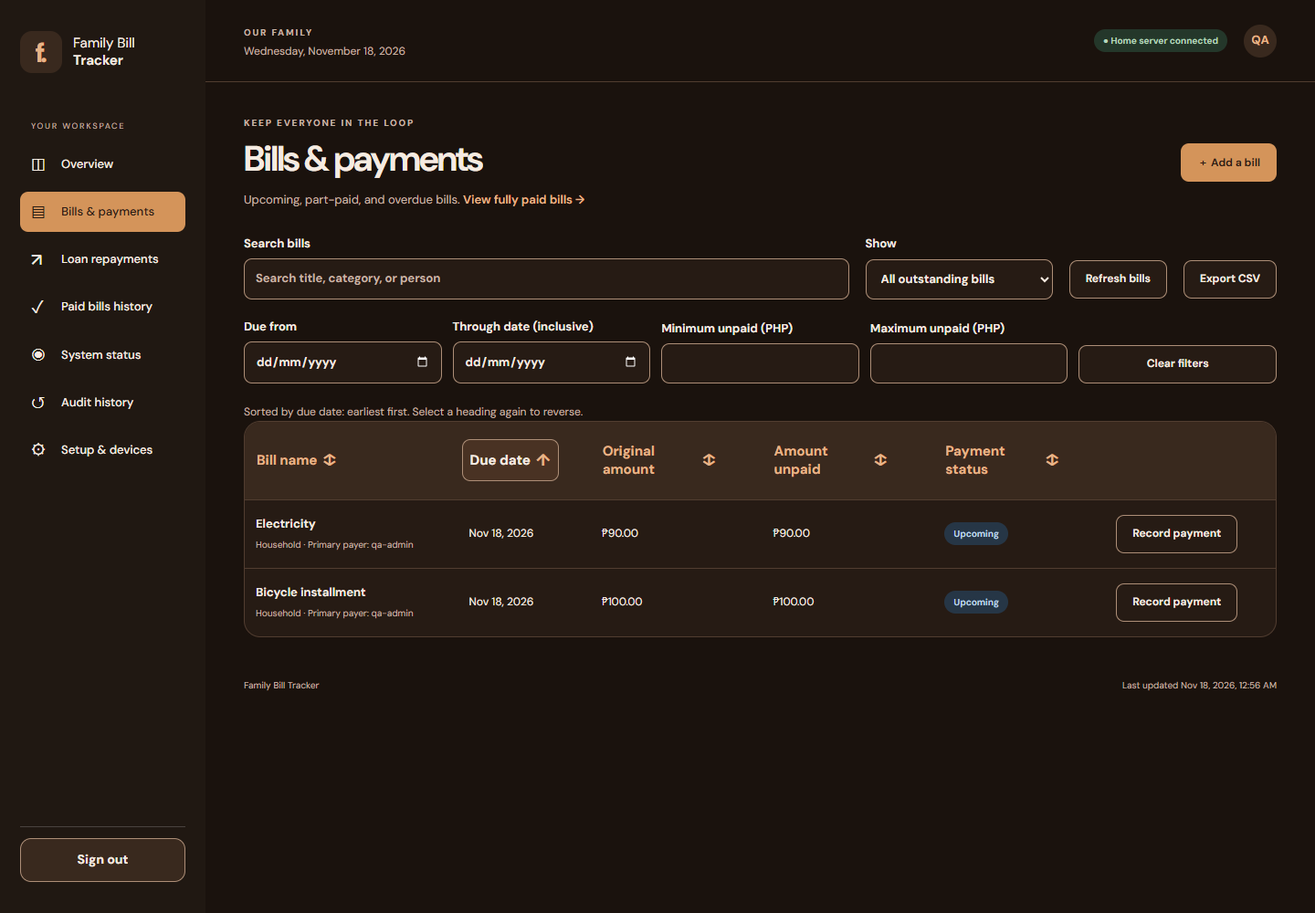
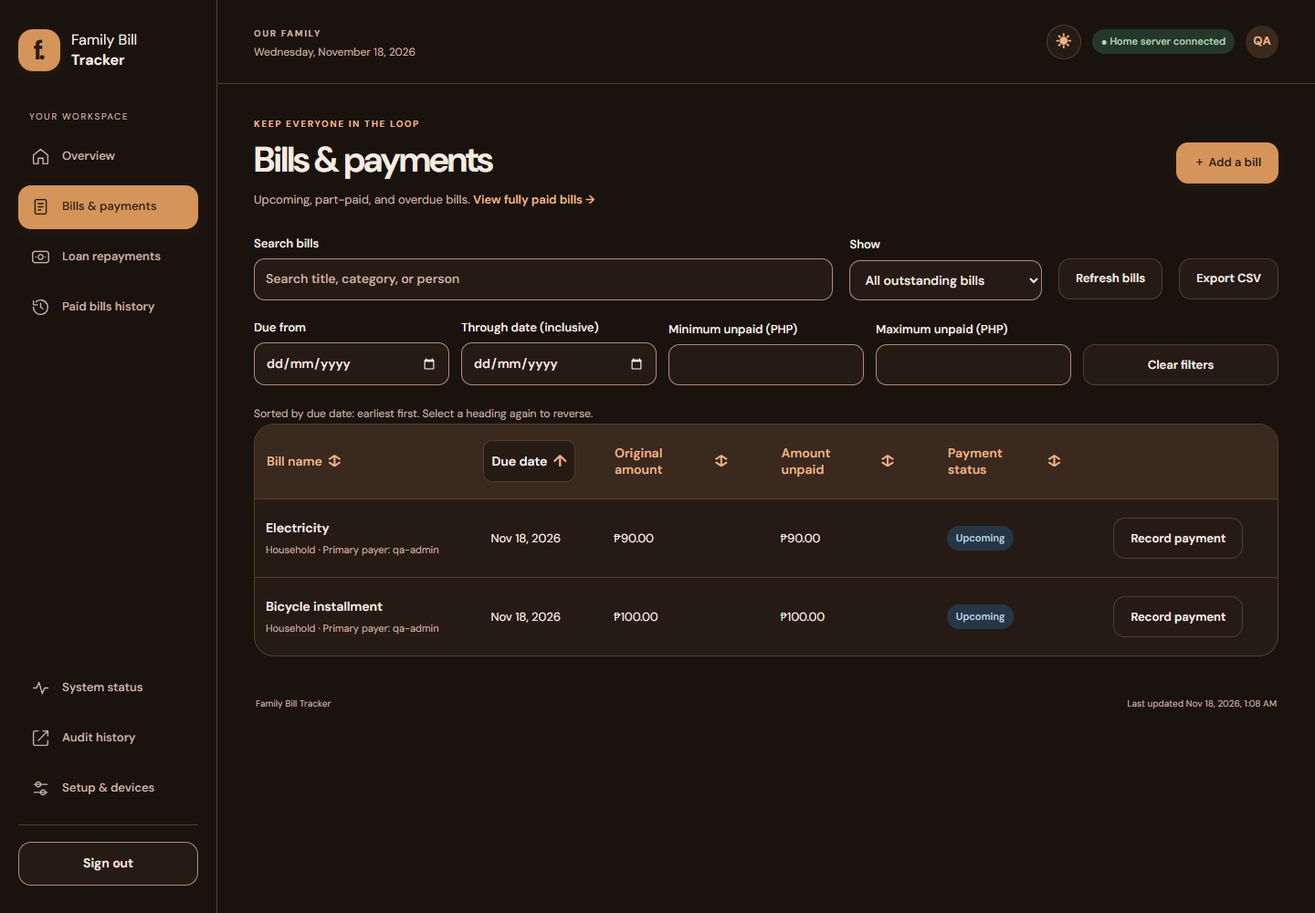
Refine family UI to match warm mobile reference

diff --git a/static/family-theme.css b/static/family-theme.css
@@ -1,0 +1,141 @@
+/* Family-facing screens only: warm cream, soft cards, and restrained toffee. */
+.family-app{background:var(--cream-50);font-size:15px}
+.family-app .sidebar{width:238px;background:var(--cream-50);border-right:1px solid var(--line);padding:30px 20px;gap:0}
+.family-app .workspace{margin-left:238px}
+.family-app .brand{color:var(--ink);font-size:16px;line-height:1.35;margin:2px 0 42px}
+.family-app .brand-mark{background:var(--toffee-500);color:var(--brand-label);border-radius:16px;box-shadow:0 4px 12px #9e62351a}
+.family-app .nav-label{color:var(--muted);font-size:10px;letter-spacing:1.6px}
+.family-app .sidebar nav{flex:0 1 auto;gap:7px;overflow:visible}
+.family-app .sidebar nav a{color:var(--muted);font-size:13px;font-weight:550;min-height:48px;border-radius:14px;padding:12px 14px;gap:13px}
+.family-app .sidebar nav a:hover{background:var(--toffee-100);color:var(--ink)}
+.family-app .sidebar nav a.active{background:var(--toffee-500);color:var(--brand-label);box-shadow:0 4px 12px #9e62351a}
+.family-app .sidebar nav a span{display:grid;place-items:center;flex-shrink:0}
+.family-app .sidebar nav a .desktop-label{display:block;width:auto;font-size:inherit;line-height:1.25}
+.family-app .sidebar nav a .mobile-label{display:none}
+.family-app .sidebar svg{width:21px;height:21px;stroke:currentColor;fill:none;stroke-width:1.6;stroke-linecap:round;stroke-linejoin:round}
+.family-app .sidebar-tools{margin-top:auto;padding-top:28px;min-height:0;overflow:auto}
+.family-app .sidebar-bottom{padding:18px 0 0;margin-top:16px;border-color:var(--line)}
+.family-app .sidebar-signout{border-radius:14px;background:var(--surface);font-weight:600;box-shadow:0 2px 5px #2b1d1405}
+.family-app .sidebar-signout:hover{background:var(--toffee-100)}
+.family-app .sidebar-signout:focus-visible,.family-app .sidebar nav a:focus-visible{outline-color:var(--focus)}
+.family-app .topbar{background:var(--cream-50);border-bottom:1px solid var(--line);min-height:92px;padding-inline:40px}
+.family-app .topbar-right{gap:12px}
+.family-app .topbar .eyebrow{color:var(--muted)}
+.round-control{display:inline-grid;place-items:center;border:1px solid var(--line);border-radius:50%;width:38px;height:38px;min-width:38px;padding:0;background:var(--surface);color:var(--toffee-600);font-size:21px;line-height:1}
+.round-control:hover{background:var(--toffee-100)}
+#workspace-toggle,.mobile-add{display:none}
+.family-app main{padding:36px 40px 24px}
+.family-app h1{font-weight:650;letter-spacing:-.045em;line-height:1.16}
+.family-app h2{font-size:20px;font-weight:600;letter-spacing:-.025em}
+.family-app .eyebrow{color:var(--toffee-600);font-size:10px;letter-spacing:1.6px}
+.family-app .page-heading{margin-bottom:28px}
+.family-app .button{font-size:13px;font-weight:600;min-height:45px;border-radius:13px;padding:12px 18px}
+.family-app .primary{box-shadow:0 4px 10px #9e62351a}
+.family-app .secondary{border-color:var(--line);background:var(--surface)}
+.family-app .secondary:hover{border-color:var(--control-border);background:var(--toffee-100)}
+.family-app .card,.family-app .stat{border-radius:22px;border-color:var(--line);background:var(--surface);box-shadow:0 5px 18px #2b1d1405}
+.family-app .stat{padding:21px 22px}
+.family-app .stat.warm{background:var(--toffee-100)}
+.family-app .stat-label{font-size:12px;font-weight:500}
+.family-app .stat-value{font-size:32px;font-weight:600;letter-spacing:-1px}
+.family-app .stat p:last-child{font-size:11px}
+.family-app .home-card{background:var(--toffee-100);border:1px solid var(--line);border-radius:22px;padding:26px}
+.family-app .home-icon{color:var(--toffee-600);opacity:.65}
+.family-app .home-card h2{font-size:25px;font-weight:600}
+.family-app .home-card .eyebrow{color:var(--muted)}
+.family-app .light{border:1px solid var(--line);background:var(--surface);color:var(--toffee-600)}
+.family-app .badge{font-size:11px;padding:5px 10px;font-weight:550}
+.family-app .bill-item{padding:19px 0}
+.family-app .bill-info strong,.family-app .bill-amount{font-size:14px;font-weight:600}
+.family-app .bill-info p{font-size:12px}
+.family-app .category-icon{background:var(--toffee-100);color:var(--toffee-600);border-radius:13px;width:42px;height:44px}
+.family-app input,.family-app select,.family-app textarea{border-radius:12px;background:var(--surface);border-color:var(--control-border);font-size:14px}
+.family-app label{font-size:13px;font-weight:550}
+.family-app .view-filters{gap:13px}
+.family-app .bill-table th{background:var(--toffee-100)}
+.family-app .bill-table .sort-heading{font-size:14px;font-weight:600;color:var(--toffee-600);border-radius:10px}
+.family-app .bill-table th[aria-sort=ascending] .sort-heading,.family-app .bill-table th[aria-sort=descending] .sort-heading{background:var(--surface);border-color:var(--line);color:var(--ink)}
+.family-app .bill-table td{padding-top:20px;padding-bottom:20px;font-size:13px}
+.family-app .record-title,.family-app .bill-detail,.family-app td strong{font-size:14px;font-weight:600}
+.family-app .record-table td .small{font-size:11px}
+.family-app .record-table td:last-child .button.bill-detail{border-radius:12px;border-color:var(--line);font-size:12px}
+.family-app .record-table .record-title{color:var(--ink)}
+.family-app .review-dialog{font-family:var(--font-ui);background:var(--surface);color:var(--ink);border:1px solid var(--line);border-radius:24px;box-shadow:0 20px 60px var(--shadow)}
+.family-app .review-dialog::backdrop{background:var(--backdrop)}
+.family-app .review-dialog .primary{background:var(--toffee-500);border-color:var(--toffee-500);color:var(--brand-label)}
+.family-app .review-dialog .primary:hover{background:var(--toffee-600)}
+.family-app .review-dialog .secondary{background:var(--surface);color:var(--ink);border-color:var(--control-border)}
+.family-app .review-dialog :focus-visible{outline-color:var(--focus)}
+.family-app .signout-dialog .primary{background:var(--danger-button);border-color:var(--danger-button);color:#fff}
+.family-app .signout-dialog .primary:hover{background:var(--danger-hover);border-color:var(--danger-hover)}
+.family-app .signout-dialog .secondary:hover{background:var(--toffee-100)}
+.family-app .footer{color:var(--muted)}
+@media(min-width:781px) and (max-height:760px){
+  .family-app .sidebar{padding-top:22px;padding-bottom:18px}
+  .family-app .brand{margin-bottom:24px}
+  .family-app .sidebar-tools{padding-top:16px}
+  .family-app .sidebar nav a{min-height:42px;padding-top:9px;padding-bottom:9px}
+}
+@media(min-width:781px) and (max-height:600px){
+  .family-app .sidebar{overflow-y:auto}
+  .family-app .sidebar-tools{overflow:visible;flex-shrink:0}
+}
+@media(min-width:781px) and (max-width:1100px){
+  .family-app .sidebar{width:208px;padding-inline:14px}
+  .family-app .workspace{margin-left:208px}
+  .family-app main{padding:30px 26px}
+  .family-app .topbar{padding-inline:26px}
+}
+@media(max-width:780px){
+  .family-app .sidebar{width:auto;height:76px;inset:auto 12px max(10px,env(safe-area-inset-bottom)) 12px;padding:0 12px;background:var(--surface);border:1px solid var(--line);border-radius:24px;overflow:visible;box-shadow:0 6px 30px #2b1d141a}
+  .family-app .sidebar>nav{display:flex;align-items:center;justify-content:space-between;flex:1;overflow:visible;gap:0;height:100%}
+  .family-app .sidebar>nav a{flex:1;min-width:0;min-height:56px;padding:8px 0;gap:5px;font-size:10px;font-weight:500;color:var(--muted);border-radius:16px}
+  .family-app .sidebar>nav a:nth-child(2){margin-right:62px}
+  .family-app .sidebar>nav a .desktop-label{display:none}
+  .family-app .sidebar>nav a .mobile-label{display:block;width:auto;font-size:10px;line-height:1.2}
+  .family-app .sidebar>nav a.active{color:var(--toffee-600);background:transparent;box-shadow:none}
+  .family-app .sidebar>nav a.active span{background:var(--toffee-100);border-radius:10px;padding:3px 11px;margin:-3px -11px}
+  .family-app .sidebar .mobile-add{display:grid;place-items:center;position:absolute;left:calc((100% - 52px)/2);top:12px;transform:translateX(-50%);height:50px;width:50px;border-radius:50%;border:4px solid var(--surface);background:var(--toffee-500);color:var(--brand-label);font-size:30px;box-shadow:0 3px 10px #9e623533;cursor:pointer}
+  .family-app .mobile-add:hover{background:var(--toffee-600)}
+  .family-app .sidebar-tools{display:none;position:absolute;bottom:88px;left:0;right:0;padding:14px;margin:0;background:var(--surface);border:1px solid var(--line);border-radius:22px;box-shadow:0 8px 30px var(--shadow);overflow:auto;max-height:calc(100dvh - 200px)}
+  .family-app .sidebar.menu-open .sidebar-tools{display:block}
+  .family-app .sidebar-tools nav{display:grid;height:auto;min-width:0}
+  .family-app .sidebar-tools nav a{flex-direction:row;justify-content:flex-start;padding:12px;min-height:46px;font-size:14px}
+  .family-app .sidebar-bottom{display:flex;align-items:center;flex:0 0 52px;padding:0 0 0 6px;margin:0;border:0;border-left:1px solid var(--line)}
+  .family-app .sidebar-signout{display:flex;flex-direction:column;gap:2px;width:100%;min-width:0;min-height:56px;padding:4px 0;font-size:9px;background:transparent;border:0;box-shadow:none}
+  .family-app .sidebar-signout::before{content:'↪';font-size:22px;line-height:1.2}
+  #workspace-toggle{display:inline-grid}
+  .family-app .workspace{margin:0;padding-bottom:112px}
+  .family-app .topbar{padding:16px 22px;min-height:96px;display:grid;grid-template-columns:minmax(0,1fr) auto;gap:12px}
+  .family-app .topbar-right{gap:8px;max-width:176px;flex-wrap:wrap;justify-content:flex-end}
+  .family-app .topbar-right .badge{order:3;font-size:9px;max-width:100%;padding:4px 8px}
+  .family-app .topbar .round-control{width:32px;height:32px;min-width:32px;font-size:18px}
+  .family-app .topbar .eyebrow{font-size:9px;letter-spacing:1.2px}
+  .family-app #today-label{font-size:10px;margin-top:5px}
+  .family-app main{padding:26px 20px 18px}
+  .family-app .page-heading{gap:16px;margin-bottom:24px}
+  .family-app .page-heading h1{font-size:31px;line-height:1.15;letter-spacing:-1.1px}
+  .family-app .page-heading .muted{font-size:13px;line-height:1.65}
+  .family-app .page-heading .primary{width:100%;min-height:46px}
+  .family-app .stats{gap:12px}
+  .family-app .stat{padding:18px;border-radius:20px}
+  .family-app .stat-value{font-size:28px}
+  .family-app .stat-label{font-size:11px}
+  .family-app .toolbar{gap:12px}
+  .family-app .toolbar .button{flex:1;font-size:12px;padding:10px 12px}
+  .family-app .mobile-bill-sort{flex-wrap:nowrap;overflow-x:auto;padding:2px 0 9px;gap:7px;margin-bottom:10px}
+  .family-app .mobile-bill-sort .button{white-space:nowrap;flex:0 0 auto;font-size:12px;min-height:40px;border-radius:22px;padding:9px 13px}
+  .family-app .record-table{border:0;background:transparent;box-shadow:none;border-radius:0;overflow:visible}
+  .family-app .record-table tbody{display:grid;gap:14px}
+  .family-app .record-table tbody tr{border:1px solid var(--line);border-radius:22px;background:var(--surface);padding:20px;gap:15px;box-shadow:0 4px 14px #2b1d1405}
+  .family-app .record-table td{padding:0;font-size:14px}
+  .family-app .record-table .record-title,.family-app .record-table .bill-detail{font-size:16px;font-weight:600}
+  .family-app .record-table td[data-label]::before{font-size:11px;margin-bottom:5px}
+  .family-app .record-table td .small{font-size:11px;line-height:1.6}
+  .family-app .record-table td:last-child .button{font-size:12px;min-height:44px;border-radius:12px}
+  .family-app .card{padding:22px;border-radius:22px}
+  .family-app .bill-table{padding:0}
+  .family-app .toast{bottom:110px}
+  .family-app .footer{padding:18px 20px;font-size:10px;gap:14px;flex-wrap:wrap}
+}
+@media print{.family-app .sidebar,.family-app .topbar{display:none}.family-app .workspace{margin:0}}

diff --git a/templates/app.html b/templates/app.html
@@ -1,8 +1,8 @@
 {% load static %}<!doctype html>
-<html lang="en"><head><meta charset="utf-8"><meta name="viewport" content="width=device-width,initial-scale=1"><meta name="theme-color" content="#FAF7F4" media="(prefers-color-scheme: light)"><meta name="theme-color" content="#1A120D" media="(prefers-color-scheme: dark)"><meta name="description" content="Your family's bills, due dates, and repayments in one calm place."><title>Family Bill Tracker</title><link rel="apple-touch-icon" href="/static/icon-180.png"><link rel="manifest" href="{% static 'manifest.webmanifest' %}"><link rel="icon" href="{% static 'icon.svg' %}" type="image/svg+xml"><link rel="stylesheet" href="{% static 'app.css' %}"><script defer src="{% static 'offline-store.js' %}"></script><link rel="stylesheet" href="{% static 'review.css' %}"><script defer src="{% static 'review.js' %}"></script><script defer src="{% static 'record-filters.js' %}"></script><script defer src="{% static 'app.js' %}"></script></head>
-<body><a class="skip" href="#main">Skip to content</a><div class="layout">
-<aside class="sidebar"><a href="#overview" class="brand"><span class="brand-mark">f.</span><span>Family Bill<br><strong>Tracker</strong></span></a><p class="nav-label">YOUR WORKSPACE</p><nav aria-label="Main navigation"><a href="#overview" data-nav="overview"><span aria-hidden="true">◫</span> Overview</a><a href="#bills" data-nav="bills"><span aria-hidden="true">▤</span> Bills & payments</a><a href="#loans" data-nav="loans"><span aria-hidden="true">↗</span> Loan repayments</a><a href="#history" data-nav="history"><span aria-hidden="true">✓</span> Paid bills history</a><a href="#system" data-nav="system"><span aria-hidden="true">◉</span> System status</a><a id="audit-nav" href="#audit" data-nav="audit" hidden><span aria-hidden="true">↺</span> Audit history</a><a href="#setup" data-nav="setup"><span aria-hidden="true">⚙</span> Setup & devices</a></nav><div class="sidebar-bottom"><button id="logout" class="sidebar-signout" type="button">Sign out</button></div></aside>
-<div class="workspace"><header class="topbar"><div><span class="eyebrow" id="family-name">YOUR FAMILY WORKSPACE</span><p id="today-label" class="small muted"></p></div><div class="topbar-right"><span id="connection-badge" class="badge muted-badge">Connecting</span><span id="user-avatar" class="avatar" aria-label="Your account">F</span></div></header>
+<html lang="en"><head><meta charset="utf-8"><meta name="viewport" content="width=device-width,initial-scale=1"><meta name="theme-color" content="#FAF7F4" media="(prefers-color-scheme: light)"><meta name="theme-color" content="#1A120D" media="(prefers-color-scheme: dark)"><meta name="description" content="Your family's bills, due dates, and repayments in one calm place."><title>Family Bill Tracker</title><link rel="apple-touch-icon" href="/static/icon-180.png"><link rel="manifest" href="{% static 'manifest.webmanifest' %}"><link rel="icon" href="{% static 'icon.svg' %}" type="image/svg+xml"><script src="{% static 'theme.js' %}"></script><link rel="stylesheet" href="{% static 'app.css' %}"><script defer src="{% static 'offline-store.js' %}"></script><link rel="stylesheet" href="{% static 'review.css' %}"><link rel="stylesheet" href="{% static 'family-theme.css' %}"><script defer src="{% static 'review.js' %}"></script><script defer src="{% static 'record-filters.js' %}"></script><script defer src="{% static 'app.js' %}"></script></head>
+<body class="family-app"><a class="skip" href="#main">Skip to content</a><div class="layout">
+<aside class="sidebar"><a href="#overview" class="brand"><span class="brand-mark">f.</span><span>Family Bill<br><strong>Tracker</strong></span></a><p class="nav-label">YOUR WORKSPACE</p><nav aria-label="Main navigation"><a href="#overview" data-nav="overview"><span aria-hidden="true"><svg viewBox="0 0 24 24"><path d="m3 10 9-7 9 7v10a1 1 0 0 1-1 1h-5v-7H9v7H4a1 1 0 0 1-1-1Z"/></svg></span><span class="desktop-label">Overview</span><span class="mobile-label">Home</span></a><a href="#bills" data-nav="bills"><span aria-hidden="true"><svg viewBox="0 0 24 24"><rect x="5" y="3" width="14" height="18" rx="2"/><path d="M9 8h6M9 12h6M9 16h3"/></svg></span><span class="desktop-label">Bills & payments</span><span class="mobile-label">Bills</span></a><a href="#loans" data-nav="loans"><span aria-hidden="true"><svg viewBox="0 0 24 24"><rect x="2" y="5" width="20" height="14" rx="3"/><circle cx="12" cy="12" r="3"/><path d="M6 12h.01M18 12h.01"/></svg></span><span class="desktop-label">Loan repayments</span><span class="mobile-label">Loans</span></a><a href="#history" data-nav="history"><span aria-hidden="true"><svg viewBox="0 0 24 24"><path d="M3 12a9 9 0 1 0 3-6.7M3 4v5h5M12 7v5l3 2"/></svg></span><span class="desktop-label">Paid bills history</span><span class="mobile-label">History</span></a></nav><div class="sidebar-tools" id="workspace-menu"><nav aria-label="Workspace tools"><a href="#system" data-nav="system"><span aria-hidden="true"><svg viewBox="0 0 24 24"><path d="M3 12h4l3-7 4 14 3-7h4"/></svg></span> System status</a><a id="audit-nav" href="#audit" data-nav="audit" hidden><span aria-hidden="true"><svg viewBox="0 0 24 24"><path d="M9 3H5a2 2 0 0 0-2 2v14a2 2 0 0 0 2 2h14a2 2 0 0 0 2-2v-4M9 15l11-11M15 3h6v6"/></svg></span> Audit history</a><a href="#setup" data-nav="setup"><span aria-hidden="true"><svg viewBox="0 0 24 24"><path d="M4 7h16M4 17h16"/><circle cx="9" cy="7" r="3"/><circle cx="15" cy="17" r="3"/></svg></span> Setup & devices</a></nav></div><div class="sidebar-bottom"><button id="logout" class="sidebar-signout" type="button">Sign out</button></div><button class="mobile-add add-bill" type="button" data-online aria-label="Add a bill"><span aria-hidden="true">＋</span></button></aside>
+<div class="workspace"><header class="topbar"><div><span class="eyebrow" id="family-name">YOUR FAMILY WORKSPACE</span><p id="today-label" class="small muted"></p></div><div class="topbar-right"><button id="theme-toggle" class="round-control" type="button" aria-label="Switch to dark mode"><span aria-hidden="true">☾</span></button><button id="workspace-toggle" class="round-control" type="button" aria-controls="workspace-menu" aria-expanded="false" aria-label="Open workspace menu"><span aria-hidden="true">☰</span></button><span id="connection-badge" class="badge muted-badge">Connecting</span><span id="user-avatar" class="avatar" aria-label="Your account">F</span></div></header>
 <main id="main"><div id="notice" class="notice" role="status" hidden><div><strong id="notice-title"></strong><p id="notice-copy"></p></div><button id="refresh-snapshot" class="button primary" hidden>Update saved bills</button></div><div id="error" class="form-error" role="alert" hidden></div><div id="loading" class="empty"><div class="brand-mark">f.</div><h2>Opening your family workspace…</h2><p>Checking the connection to your home server.</p></div>
 <section id="overview" class="page" hidden><div class="page-heading"><div><p class="eyebrow">A CLEARER PICTURE</p><h1>One less thing to remember.</h1><p class="muted">A little planning today. More peace of mind tomorrow.</p></div><button class="button primary add-bill" data-online>＋ Add a bill</button></div><div class="stats" id="stats"></div><div class="dashboard-grid"><article class="card"><div class="card-heading"><div><h2>Coming up next</h2><p class="muted small">Your next payments, in order.</p></div><a href="#bills">View all →</a></div><div id="upcoming-list"></div></article><div class="stack"><article class="home-card"><span class="eyebrow">YOUR HOME CONNECTION</span><div class="home-icon" aria-hidden="true">⌂</div><h2 id="home-name">Family NAS</h2><p id="home-copy">Checking your home server.</p><a href="#system" class="button light">Check system status →</a></article><article class="card"><p class="eyebrow">A LITTLE ROUTINE HELPS</p><h3>Paid a bill today?</h3><p class="muted small">Record the payment so everyone knows it's taken care of.</p><a href="#bills">Review your bills →</a></article></div></div><article class="card activity-card"><div class="card-heading"><h2>Recently recorded</h2><span class="small muted">Shared with your family</span></div><div id="activity-list"></div></article></section>
 <section id="bills" class="page" hidden><div class="page-heading"><div><p class="eyebrow">KEEP EVERYONE IN THE LOOP</p><h1>Bills & payments</h1><p class="muted">Upcoming, part-paid, and overdue bills. <a href="#history">View fully paid bills →</a></p></div><button class="button primary add-bill" data-online>＋ Add a bill</button></div><div class="toolbar"><label class="search-label">Search bills<input id="search" type="search" placeholder="Search title, category, or person"></label><label>Show<select id="status-filter"><option value="all">All outstanding bills</option><option value="upcoming">Upcoming</option><option value="partial">Part paid</option><option value="overdue">Overdue</option></select></label><button id="refresh-online" class="button secondary" data-online>Refresh bills</button><a class="button secondary" id="export-link" href="/api/export/">Export CSV</a></div><div id="bill-filters"></div><div id="mobile-bill-sort" class="mobile-bill-sort" aria-label="Sort bills"></div><p id="bill-sort-description" class="hint" role="status"></p><article class="card bill-table record-table"><div class="table-scroll"><table><thead><tr><th aria-sort="none"><button type="button" class="sort-heading" data-sort="title">Bill name <span aria-hidden="true"></span></button></th><th aria-sort="ascending"><button type="button" class="sort-heading" data-sort="date">Due date <span aria-hidden="true">↑</span></button></th><th aria-sort="none"><button type="button" class="sort-heading" data-sort="original">Original amount <span aria-hidden="true"></span></button></th><th aria-sort="none"><button type="button" class="sort-heading" data-sort="amount">Amount unpaid <span aria-hidden="true"></span></button></th><th aria-sort="none"><button type="button" class="sort-heading" data-sort="status">Payment status <span aria-hidden="true"></span></button></th><th><span class="sr-only">Action</span></th></tr></thead><tbody id="bill-rows"></tbody></table></div><div id="bills-empty" class="empty" hidden><h3>No outstanding bills match.</h3><p>Clear the filters, add a bill, or <a href="#history">review paid bills history</a>.</p></div></article></section>

diff --git a/static/review.css b/static/review.css
@@ -1,7 +1,4 @@
-@import url("/static/fonts.css");
-.review-dialog{box-sizing:border-box;width:calc(100% - 32px);max-width:580px;max-height:88dvh;overflow:auto;border:1px solid var(--line);border-radius:16px;padding:24px;background:var(--surface);color:var(--ink)}.review-dialog::backdrop{background:var(--backdrop)}.review-dialog h2{margin:0 0 16px}.review-dialog p{margin:12px 0;font-size:14px}.review-dialog dl{display:grid;grid-template-columns:minmax(100px,1fr) minmax(0,2fr);gap:12px;margin:24px 0}.review-dialog dt{font-weight:650}.review-dialog dd{margin:0;white-space:pre-wrap;overflow-wrap:anywhere}.review-dialog .button-row{display:flex;flex-wrap:wrap;gap:12px}.review-dialog button{min-height:44px;padding:10px 16px;border-radius:8px;cursor:pointer}.review-dialog .primary{background:var(--toffee-500);color:white;border:1px solid var(--toffee-500)}.review-dialog .secondary{background:var(--surface);color:inherit;border:1px solid var(--control-border)}.review-dialog :focus-visible{outline:3px solid var(--focus);outline-offset:3px}@media(max-width:420px){.review-dialog{padding:18px}.review-dialog dl{grid-template-columns:1fr;gap:6px}.review-dialog dd{margin-bottom:10px}}
-.signout-dialog{max-width:380px}.signout-dialog h2{font-size:20px;margin:0 0 22px}.signout-dialog .button-row{margin-top:0}.signout-dialog .primary{background:var(--danger-button);border-color:var(--danger-button);color:#fff}.signout-dialog .primary:hover{background:var(--danger-hover);border-color:var(--danger-hover)}.signout-dialog .secondary:hover{background:var(--hover)}
+.review-dialog{box-sizing:border-box;width:calc(100% - 32px);max-width:580px;max-height:88dvh;overflow:auto;border:1px solid #cfdad3;border-radius:16px;padding:24px;background:var(--body-bg,#fff);color:var(--body-fg,#243c32)}.review-dialog::backdrop{background:#102b2c99}.review-dialog h2{margin:0 0 16px}.review-dialog p{margin:12px 0;font-size:14px}.review-dialog dl{display:grid;grid-template-columns:minmax(100px,1fr) minmax(0,2fr);gap:12px;margin:24px 0}.review-dialog dt{font-weight:650}.review-dialog dd{margin:0;white-space:pre-wrap;overflow-wrap:anywhere}.review-dialog .button-row{display:flex;flex-wrap:wrap;gap:12px}.review-dialog button{min-height:44px;padding:10px 16px;border-radius:8px;cursor:pointer}.review-dialog .primary{background:#235c46;color:white;border:1px solid #235c46}.review-dialog .secondary{background:var(--body-bg,#fff);color:inherit;border:1px solid #aabbb0}.review-dialog :focus-visible{outline:3px solid #c78e20;outline-offset:3px}@media(max-width:420px){.review-dialog{padding:18px}.review-dialog dl{grid-template-columns:1fr;gap:6px}.review-dialog dd{margin-bottom:10px}}
+.signout-dialog{max-width:380px}.signout-dialog h2{font-size:20px;margin:0 0 22px}.signout-dialog .button-row{margin-top:0}.signout-dialog .primary{background:#b52c35;border-color:#b52c35;color:#fff}.signout-dialog .primary:hover{background:#94212a;border-color:#94212a}.signout-dialog .secondary:hover{background:#f0f3ef}
 
-.signout-dialog{max-width:400px;padding:28px;border:1px solid var(--line);border-radius:20px;box-shadow:0 24px 72px var(--shadow),0 4px 16px var(--shadow)}.signout-dialog::backdrop{background:var(--backdrop);backdrop-filter:blur(4px)}.signout-dialog h2{font-size:21px;font-weight:700;letter-spacing:-.4px;text-align:center;margin:0 0 24px}.signout-dialog .button-row{display:grid;grid-template-columns:minmax(0,1fr) minmax(0,1fr);gap:12px}.signout-dialog button{width:100%;min-height:48px;border-radius:11px;font-size:14px;font-weight:650;box-shadow:0 1px 2px var(--shadow)}.signout-dialog .primary{background:var(--danger-button);border-color:var(--danger-button);box-shadow:0 2px 5px var(--shadow)}.signout-dialog .secondary{background:var(--surface);border-color:var(--control-border);color:var(--ink)}.signout-dialog .secondary:hover{background:var(--hover);border-color:var(--control-border)}.signout-dialog .primary:focus-visible{outline:3px solid var(--focus);outline-offset:3px}.signout-dialog .secondary:focus-visible{outline:3px solid var(--focus);outline-offset:3px}@media(max-width:420px){.signout-dialog{padding:24px;border-radius:18px}}@media(prefers-reduced-motion:no-preference){.signout-dialog button{transition:background-color .15s,border-color .15s,box-shadow .15s}}
-
-.review-dialog{font-family:var(--font-ui)}.review-dialog .primary{color:var(--brand-label)}.review-dialog .primary:hover{background:var(--toffee-600)}.signout-dialog .primary{color:#fff}.signout-dialog .primary:hover{background:var(--danger-hover)}
+.signout-dialog{max-width:400px;padding:28px;border:1px solid #dce5df;border-radius:20px;box-shadow:0 24px 72px #102e3240,0 4px 16px #102e3214}.signout-dialog::backdrop{background:#102b2c80;backdrop-filter:blur(4px)}.signout-dialog h2{font-size:21px;font-weight:700;letter-spacing:-.4px;text-align:center;margin:0 0 24px}.signout-dialog .button-row{display:grid;grid-template-columns:minmax(0,1fr) minmax(0,1fr);gap:12px}.signout-dialog button{width:100%;min-height:48px;border-radius:11px;font-size:14px;font-weight:650;box-shadow:0 1px 2px #17352b0d}.signout-dialog .primary{background:#b52c35;border-color:#b52c35;box-shadow:0 2px 5px #9d1d2524}.signout-dialog .secondary{background:#f6f8f5;border-color:#d3ddd5;color:#344b40}.signout-dialog .secondary:hover{background:#eaf0e7;border-color:#b6c7b8}.signout-dialog .primary:focus-visible{outline:3px solid #e6a6ab;outline-offset:3px}.signout-dialog .secondary:focus-visible{outline:3px solid #9fc2ac;outline-offset:3px}@media(max-width:420px){.signout-dialog{padding:24px;border-radius:18px}}@media(prefers-reduced-motion:no-preference){.signout-dialog button{transition:background-color .15s,border-color .15s,box-shadow .15s}}

diff --git a/static/theme.js b/static/theme.js
@@ -1,0 +1,22 @@
+/* The family app starts in cream. A device-local choice is optional and offline-safe. */
+(() => {
+  let theme='light';
+  try {if(localStorage.getItem('fbt-theme')==='dark')theme='dark';}catch(_){/* Private browsing can disable storage. */}
+  document.documentElement.dataset.theme=theme;
+  const chrome=()=>document.querySelectorAll('meta[name="theme-color"]').forEach(meta=>{meta.content=theme==='light'?'#FAF7F4':'#1A120D';});
+  chrome();
+  document.addEventListener('DOMContentLoaded',()=>{
+    const button=document.getElementById('theme-toggle');
+    const update=()=>{chrome();if(button){button.setAttribute('aria-label',theme==='light'?'Switch to dark mode':'Switch to light mode');button.firstElementChild.textContent=theme==='light'?'☾':'☀';}};
+    update();
+    button?.addEventListener('click',()=>{theme=theme==='light'?'dark':'light';document.documentElement.dataset.theme=theme;try{localStorage.setItem('fbt-theme',theme);}catch(_){}update();});
+    const sidebar=document.querySelector('.sidebar'),menu=document.getElementById('workspace-toggle');
+    const close=()=>{sidebar?.classList.remove('menu-open');menu?.setAttribute('aria-expanded','false');menu?.setAttribute('aria-label','Open workspace menu');};
+    menu?.addEventListener('click',()=>{const open=sidebar.classList.toggle('menu-open');menu.setAttribute('aria-expanded',String(open));menu.setAttribute('aria-label',open?'Close workspace menu':'Open workspace menu');});
+    document.addEventListener('keydown',event=>{if(event.key==='Escape'&&sidebar?.classList.contains('menu-open')){close();menu.focus();}});
+    document.addEventListener('click',event=>{if(!sidebar?.contains(event.target)&&!menu?.contains(event.target))close();});
+    sidebar?.querySelectorAll('a').forEach(link=>link.addEventListener('click',close));
+    sidebar?.querySelector('.mobile-add')?.addEventListener('click',close);
+    window.addEventListener('hashchange',close);
+  });
+})();

diff --git a/static/sw.js b/static/sw.js
@@ -1,6 +1,6 @@
 /* Cache only the public shell. Authenticated responses and API data are never cached here. */
-const SHELL_CACHE = 'fbt-shell-v12';
-const ASSETS = ['/app/', '/static/app.css', '/static/fonts.css', '/static/fonts/dm-sans.ttf', '/static/app.js', '/static/review.js', '/static/review.css', '/static/record-filters.js', '/static/offline-store.js', '/static/icon.svg', '/static/icon-180.png', '/static/icon-192.png', '/static/icon-512.png', '/static/manifest.webmanifest'];
+const SHELL_CACHE = 'fbt-shell-v13';
+const ASSETS = ['/app/', '/static/app.css', '/static/family-theme.css', '/static/theme.js', '/static/fonts.css', '/static/fonts/dm-sans.ttf', '/static/app.js', '/static/review.js', '/static/review.css', '/static/record-filters.js', '/static/offline-store.js', '/static/icon.svg', '/static/icon-180.png', '/static/icon-192.png', '/static/icon-512.png', '/static/manifest.webmanifest'];
 self.addEventListener('install', event => {
   event.waitUntil(caches.open(SHELL_CACHE).then(cache => cache.addAll(ASSETS)).then(() => self.skipWaiting()));
 });

diff --git a/static/fonts.css b/static/fonts.css
@@ -25,11 +25,11 @@
   --control-border: #927968;
   --focus: #7D4B25;
   --brand-label: #FFFFFF;
-  --sidebar: #2C3E50;
-  --sidebar-text: #F5EBE1;
-  --sidebar-muted: #D4C5B8;
-  --sidebar-hover: #3E5266;
-  --sidebar-active: #7D4B25;
+  --sidebar: #F5EBE1;
+  --sidebar-text: #2B1D14;
+  --sidebar-muted: #6E5A4F;
+  --sidebar-hover: #EEDDCB;
+  --sidebar-active: #F5EBE1;
   --success-bg: #EAF0E9;
   --success-text: #365743;
   --success-bar: #5A7263;

diff --git a/tools/render_icons.py b/tools/render_icons.py
@@ -7,7 +7,7 @@ font_paths = [root / 'static/fonts/dm-sans.ttf', Path('C:/Windows/Fonts/segoeuib
 font_path = next((path for path in font_paths if path.exists()), None)
 for size in (180, 192, 512):
     scale = 4
-    image = Image.new('RGB', (size * scale, size * scale), '#2C3E50')
+    image = Image.new('RGB', (size * scale, size * scale), '#9E6235')
     draw = ImageDraw.Draw(image)
     font = ImageFont.truetype(str(font_path), int(size * scale * .73)) if font_path else ImageFont.load_default(size=int(size * scale * .73))
     draw.text((size * scale * .32, size * scale * .03), 'f', font=font, fill='#F5EBE1')

diff --git a/docs/TOFFEE-THEME.md b/docs/TOFFEE-THEME.md
@@ -1,7 +1,9 @@
 # Toffee theme and typography
 
 The app uses the palette proposed in issue #15: cream canvas, white surfaces,
-espresso text, toffee actions, and a slate navy sidebar. Sage indicates success;
+espresso text, toffee actions, and a cream sidebar. The user's visual reference
+sets the direction: soft rounded cards, restrained brown accents, and a compact
+mobile bar with a central add action. Sage indicates success;
 warning, overdue, and destructive states retain distinct colors and text labels.
 
 DM Sans provides a softer match for the warm palette while keeping dates,
@@ -12,10 +14,12 @@ there are no Google Fonts requests or other font services at runtime.
 - Font source: [Google Fonts / DM Sans](https://github.com/google/fonts/tree/main/ofl/dmsans).
 - Font license: [SIL Open Font License](../static/fonts/OFL.txt), included with the font.
 - Shared tokens and font declaration: `static/fonts.css`.
-- App, confirmations, NAS guide, and administration consume the same tokens.
-- Dark mode follows the device preference. Django administration retains its
-  own light/dark/automatic selector, using the same palette in each mode.
-- Browser chrome uses light/dark theme metadata; installed app icons use slate
+- The family app, confirmations, and NAS guide consume shared tokens.
+- The main family app defaults to light cream, with an optional light/dark
+  toggle whose device-local preference works offline. Account/guide screens
+  follow the device preference. Django administration retains its original
+  colors, fonts, and theme selector; it does not load family theme assets.
+- Browser chrome follows the chosen app theme; installed app icons use toffee
   and cream. Installers may cache their icon or initial splash color until the
   app is reinstalled; the manifest supplies the light launch background.
 
@@ -25,13 +29,13 @@ input borders use a stronger color than decorative oat dividers. Placeholders
 use the secondary text color. Keyboard focus stays visible on both palettes.
 
 `tests/browser-theme.cjs`, invoked by the Django browser suite, checks rendered
-text contrast, theme switching, keyboard focus, 390/768px layouts, admin and NAS
+text contrast, theme switching, keyboard focus, 390/768px layouts, original admin and NAS
 guide styles, absence of remote requests, and the font loading after an offline
 reload. Screenshots use fictional records and are saved as CI artifacts.
 These checks cover representative controls and text; they are not a complete
 accessibility certification.
 
-The public service-worker cache advances to v12 and includes the font, so an
+The public service-worker cache advances to v13 and includes the font, so an
 existing installation fetches the updated shell when connected. Saving financial
 records for offline review remains an explicit per-device choice. No database
 migrations or additional production dependencies are needed. Existing backup
